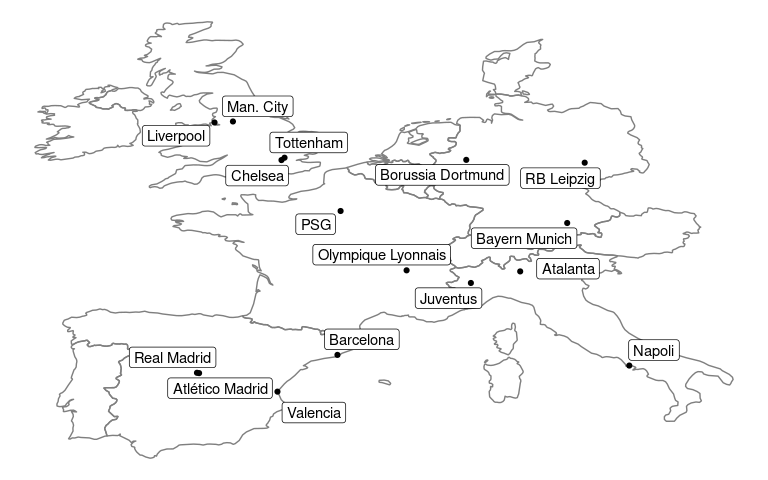
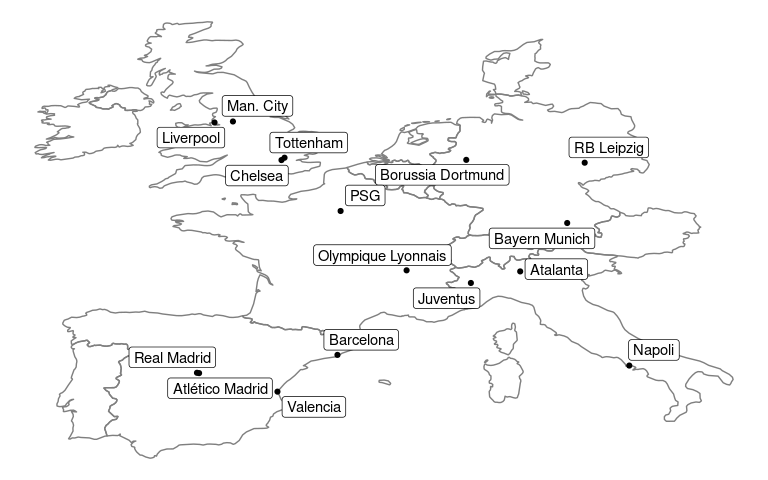
publish tidygeocoder-post-to-rbloggers

diff --git a/_site/2020/07/15/tidygeocoder-1-0-0.html b/_site/2020/07/15/tidygeocoder-1-0-0.html
@@ -13,11 +13,11 @@
 <link rel="canonical" href="http://localhost:4000/2020/07/15/tidygeocoder-1-0-0.html" />
 <meta property="og:url" content="http://localhost:4000/2020/07/15/tidygeocoder-1-0-0.html" />
 <meta property="og:site_name" content="Jesse Cambon" />
-<meta property="og:image" content="https://raw.githubusercontent.com/jessecambon/tidygeocoder/master/man/figures/tidygeocoder_hex.png" />
+<meta property="og:image" content="http://localhost:4000/images/tidygeocoder_hex.png" />
 <meta property="og:type" content="article" />
 <meta property="article:published_time" content="2020-07-15T00:00:00-04:00" />
 <script type="application/ld+json">
-{"@type":"BlogPosting","url":"http://localhost:4000/2020/07/15/tidygeocoder-1-0-0.html","mainEntityOfPage":{"@type":"WebPage","@id":"http://localhost:4000/2020/07/15/tidygeocoder-1-0-0.html"},"author":{"@type":"Person","name":"Jesse Cambon"},"headline":"Introducing Tidygeocoder 1.0.0","dateModified":"2020-07-15T00:00:00-04:00","datePublished":"2020-07-15T00:00:00-04:00","description":"Tidygeocoder v1.0.0 is now live on CRAN. There are numerous new features and improvements such as batch geocoding (submitting multiple addresses per query), returning full results from geocoder services (not just latitude and longitude), address component arguments (city, country, etc.), query customization, and reduced package dependencies.","image":"https://raw.githubusercontent.com/jessecambon/tidygeocoder/master/man/figures/tidygeocoder_hex.png","@context":"https://schema.org"}</script>
+{"@type":"BlogPosting","url":"http://localhost:4000/2020/07/15/tidygeocoder-1-0-0.html","mainEntityOfPage":{"@type":"WebPage","@id":"http://localhost:4000/2020/07/15/tidygeocoder-1-0-0.html"},"author":{"@type":"Person","name":"Jesse Cambon"},"headline":"Introducing Tidygeocoder 1.0.0","dateModified":"2020-07-15T00:00:00-04:00","datePublished":"2020-07-15T00:00:00-04:00","description":"Tidygeocoder v1.0.0 is now live on CRAN. There are numerous new features and improvements such as batch geocoding (submitting multiple addresses per query), returning full results from geocoder services (not just latitude and longitude), address component arguments (city, country, etc.), query customization, and reduced package dependencies.","image":"http://localhost:4000/images/tidygeocoder_hex.png","@context":"https://schema.org"}</script>
 <!-- End Jekyll SEO tag -->
 <link rel="stylesheet" href="/assets/css/style.css"><link type="application/atom+xml" rel="alternate" href="http://localhost:4000/feed.xml" title="Jesse Cambon" />
 </head>
@@ -59,6 +59,8 @@
 
 <p>For a full list of new features and improvements refer to the <a href="https://github.com/jessecambon/tidygeocoder/releases/tag/v1.0.0">release page on Github</a>. For usage examples you can reference the <a href="https://jessecambon.github.io/tidygeocoder/articles/tidygeocoder.html">the Getting Started vignette</a>.</p>
 
+<p><img src="/../images/tidygeocoder_hex.png" width="200" style="display: block; margin: auto;" /></p>
+
 <p>To demonstrate a few of the new capabilities of this package, I decided to make a map of the stadiums for the <a href="https://www.uefa.com/uefachampionsleague/draws/2020/2001141/">UEFA Champions League Round of 16 clubs</a>. To start, I looked up the addresses for the stadiums and put them in a dataframe.</p>
 
 <div class="language-r highlighter-rouge"><div class="highlight"><pre class="highlight"><code><span class="n">library</span><span class="p">(</span><span class="n">dplyr</span><span class="p">)</span><span class="w">
@@ -89,7 +91,7 @@
   </span><span class="p">)</span><span class="w">
 </span></code></pre></div></div>
 
-<p>To geocode these addresses with the tidygeocoder package, you can use the code below. New in v1.0.0, the <code class="highlighter-rouge">street</code>, <code class="highlighter-rouge">city</code>, and <code class="highlighter-rouge">country</code> arguments specify the address. The Nominatim (OSM) geocoder is selected with the <code class="highlighter-rouge">method</code> argument. Additionally, the <code class="highlighter-rouge">full_results</code> and <code class="highlighter-rouge">custom_query</code> arguments (also new in v1.0.0) are used to return the full geocoder results and set <a href="https://nominatim.org/release-docs/develop/api/Search/#parameters">Nominatim’s “extratags” parameter</a> which returns extra columns.</p>
+<p>To geocode these addresses, you can use the <a href="https://jessecambon.github.io/tidygeocoder/reference/geocode.html">geocode</a> function as shown below. New in v1.0.0, the <code class="highlighter-rouge">street</code>, <code class="highlighter-rouge">city</code>, and <code class="highlighter-rouge">country</code> arguments specify the address. The Nominatim (OSM) geocoder is selected with the <code class="highlighter-rouge">method</code> argument. Additionally, the <code class="highlighter-rouge">full_results</code> and <code class="highlighter-rouge">custom_query</code> arguments (also new in v1.0.0) are used to return the full geocoder results and set <a href="https://nominatim.org/release-docs/develop/api/Search/#parameters">Nominatim’s “extratags” parameter</a> which returns extra columns.</p>
 
 <div class="language-r highlighter-rouge"><div class="highlight"><pre class="highlight"><code><span class="n">stadium_locations</span><span class="w"> </span><span class="o">&lt;-</span><span class="w"> </span><span class="n">stadiums</span><span class="w"> </span><span class="o">%&gt;%</span><span class="w">
   </span><span class="n">geocode</span><span class="p">(</span><span class="n">street</span><span class="w"> </span><span class="o">=</span><span class="w"> </span><span class="n">Street</span><span class="p">,</span><span class="w"> </span><span class="n">city</span><span class="w"> </span><span class="o">=</span><span class="w"> </span><span class="n">City</span><span class="p">,</span><span class="w"> </span><span class="n">country</span><span class="w"> </span><span class="o">=</span><span class="w"> </span><span class="n">Country</span><span class="p">,</span><span class="w"> </span><span class="n">method</span><span class="w"> </span><span class="o">=</span><span class="w"> </span><span class="s1">'osm'</span><span class="p">,</span><span class="w"> 
@@ -282,11 +284,10 @@
 </span><span class="n">ggplot</span><span class="p">(</span><span class="n">stadium_locations</span><span class="p">,</span><span class="w"> </span><span class="n">aes</span><span class="p">(</span><span class="n">x</span><span class="w"> </span><span class="o">=</span><span class="w"> </span><span class="n">long</span><span class="p">,</span><span class="w"> </span><span class="n">y</span><span class="w"> </span><span class="o">=</span><span class="w"> </span><span class="n">lat</span><span class="p">))</span><span class="w"> </span><span class="o">+</span><span class="w">
   </span><span class="n">borders</span><span class="p">(</span><span class="s1">'world'</span><span class="p">,</span><span class="w"> </span><span class="n">xlim</span><span class="w"> </span><span class="o">=</span><span class="w"> </span><span class="nf">c</span><span class="p">(</span><span class="m">-10</span><span class="p">,</span><span class="w"> </span><span class="m">10</span><span class="p">),</span><span class="w"> </span><span class="n">ylim</span><span class="w"> </span><span class="o">=</span><span class="w"> </span><span class="nf">c</span><span class="p">(</span><span class="m">40</span><span class="p">,</span><span class="w"> </span><span class="m">55</span><span class="p">))</span><span class="w"> </span><span class="o">+</span><span class="w">
   </span><span class="n">geom_label_repel</span><span class="p">(</span><span class="n">aes</span><span class="p">(</span><span class="n">label</span><span class="w"> </span><span class="o">=</span><span class="w"> </span><span class="n">Club</span><span class="p">),</span><span class="w"> </span><span class="n">force</span><span class="w"> </span><span class="o">=</span><span class="w"> </span><span class="m">2</span><span class="p">,</span><span class="w"> </span><span class="n">segment.alpha</span><span class="w"> </span><span class="o">=</span><span class="w"> </span><span class="m">0</span><span class="p">)</span><span class="w"> </span><span class="o">+</span><span class="w"> 
-  </span><span class="n">geom_point</span><span class="p">()</span><span class="w"> </span><span class="o">+</span><span class="w"> 
-  </span><span class="n">theme_void</span><span class="p">()</span><span class="w"> 
+  </span><span class="n">geom_point</span><span class="p">()</span><span class="w"> </span><span class="o">+</span><span class="w"> </span><span class="n">theme_void</span><span class="p">()</span><span class="w"> 
 </span></code></pre></div></div>
 
-<p><img src="/rmd_images/2020-07-15-tidygeocoder-1-0-0/unnamed-chunk-4-1.png" style="display: block; margin: auto;" /></p>
+<p><img src="/rmd_images/2020-07-15-tidygeocoder-1-0-0/unnamed-chunk-5-1.png" style="display: block; margin: auto;" /></p>
 
 <p>Another great mapping option is the <a href="https://rstudio.github.io/leaflet/">leaflet package</a>, which was originally what I intended to use for the map above, but getting it to render on a <a href="https://jekyllrb.com/">Jekyll blog</a> proved to be a bit involved.</p>
 

diff --git a/_site/index.html b/_site/index.html
@@ -52,11 +52,11 @@
           <!-- JAC List Tags https://www.jflh.ca/2016-01-23-adding-and-displaying-tags-on-jekyll-posts -->
           <!-- 
           Tags:
-          data-science, maps
+          data-science, maps, r
            -->
         </p> 
 
-        <a href="/2020/07/15/tidygeocoder-1-0-0.html"><img class="post-thumbnail" src="https://raw.githubusercontent.com/jessecambon/tidygeocoder/master/man/figures/tidygeocoder_hex.png"></a>  <!-- JAC: added post image--><p><a href="https://jessecambon.github.io/tidygeocoder/index.html">Tidygeocoder v1.0.0</a> is now live on CRAN. There are numerous new features and improvements such as batch geocoding (submitting multiple addresses per query), returning full results from geocoder services (not just latitude and longitude), address component arguments (city, country, etc.), query customization, and reduced package dependencies.</p>
+        <a href="/2020/07/15/tidygeocoder-1-0-0.html"><img class="post-thumbnail" src="images/tidygeocoder_hex.png"></a>  <!-- JAC: added post image--><p><a href="https://jessecambon.github.io/tidygeocoder/index.html">Tidygeocoder v1.0.0</a> is now live on CRAN. There are numerous new features and improvements such as batch geocoding (submitting multiple addresses per query), returning full results from geocoder services (not just latitude and longitude), address component arguments (city, country, etc.), query customization, and reduced package dependencies.</p>
 </li><li>
           <a class="post-link" href="/2020/03/22/deploying-rmarkdown-online.html">
             Deploying RMarkdown Online

diff --git a/_posts/2020-07-15-tidygeocoder-1-0-0.md b/_posts/2020-07-15-tidygeocoder-1-0-0.md
@@ -3,8 +3,8 @@ layout: post
 title: "Introducing Tidygeocoder 1.0.0"
 date: 2020-7-15
 author: Jesse Cambon
-tags: [data-science, maps]
-image: "https://raw.githubusercontent.com/jessecambon/tidygeocoder/master/man/figures/tidygeocoder_hex.png"
+tags: [r, data-science, maps]
+image: "images/tidygeocoder_hex.png"
 output: 
   md_document:
     pandoc_args: ["--wrap=none"]
@@ -15,6 +15,8 @@ output:
 [Tidygeocoder v1.0.0](https://jessecambon.github.io/tidygeocoder/index.html) is now live on CRAN. There are numerous new features and improvements such as batch geocoding (submitting multiple addresses per query), returning full results from geocoder services (not just latitude and longitude), address component arguments (city, country, etc.), query customization, and reduced package dependencies.
 
 For a full list of new features and improvements refer to the [release page on Github](https://github.com/jessecambon/tidygeocoder/releases/tag/v1.0.0). For usage examples you can reference the [the Getting Started vignette](https://jessecambon.github.io/tidygeocoder/articles/tidygeocoder.html).
+
+<img src="/../images/tidygeocoder_hex.png" width="200" style="display: block; margin: auto;" />
 
 To demonstrate a few of the new capabilities of this package, I decided to make a map of the stadiums for the [UEFA Champions League Round of 16 clubs](https://www.uefa.com/uefachampionsleague/draws/2020/2001141/). To start, I looked up the addresses for the stadiums and put them in a dataframe.
 
@@ -47,7 +49,7 @@ stadiums <- tibble::tribble(
   )
 ```
 
-To geocode these addresses with the tidygeocoder package, you can use the code below. New in v1.0.0, the `street`, `city`, and `country` arguments specify the address. The Nominatim (OSM) geocoder is selected with the `method` argument. Additionally, the `full_results` and `custom_query` arguments (also new in v1.0.0) are used to return the full geocoder results and set [Nominatim’s “extratags” parameter](https://nominatim.org/release-docs/develop/api/Search/#parameters) which returns extra columns.
+To geocode these addresses, you can use the [geocode](https://jessecambon.github.io/tidygeocoder/reference/geocode.html) function as shown below. New in v1.0.0, the `street`, `city`, and `country` arguments specify the address. The Nominatim (OSM) geocoder is selected with the `method` argument. Additionally, the `full_results` and `custom_query` arguments (also new in v1.0.0) are used to return the full geocoder results and set [Nominatim’s “extratags” parameter](https://nominatim.org/release-docs/develop/api/Search/#parameters) which returns extra columns.
 
 ``` r
 stadium_locations <- stadiums %>%
@@ -102,11 +104,10 @@ some.eu.maps <- map_data("world", region = some.eu.countries)
 ggplot(stadium_locations, aes(x = long, y = lat)) +
   borders('world', xlim = c(-10, 10), ylim = c(40, 55)) +
   geom_label_repel(aes(label = Club), force = 2, segment.alpha = 0) + 
-  geom_point() + 
-  theme_void() 
+  geom_point() + theme_void() 
 ```
 
-<img src="/rmd_images/2020-07-15-tidygeocoder-1-0-0/unnamed-chunk-4-1.png" style="display: block; margin: auto;" />
+<img src="/rmd_images/2020-07-15-tidygeocoder-1-0-0/unnamed-chunk-5-1.png" style="display: block; margin: auto;" />
 
 Another great mapping option is the [leaflet package](https://rstudio.github.io/leaflet/), which was originally what I intended to use for the map above, but getting it to render on a [Jekyll blog](https://jekyllrb.com/) proved to be a bit involved.
 
